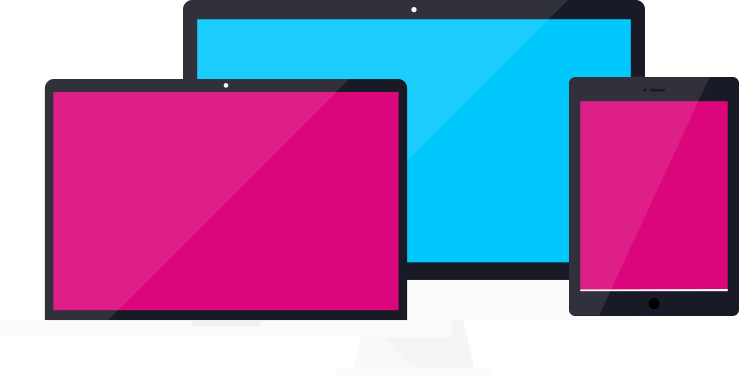
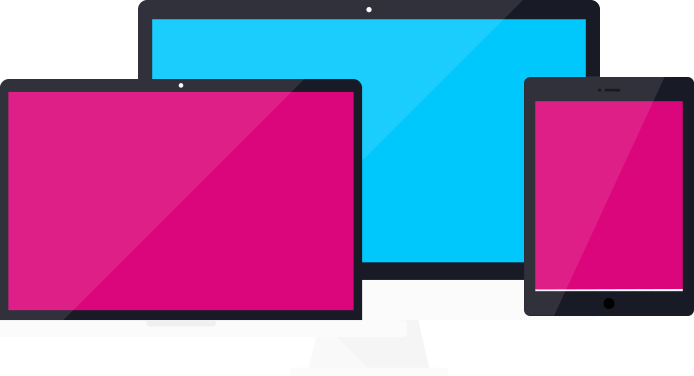
Add video section with autoplay feature and about section with achievements

diff --git a/css/kasper.css b/css/kasper.css
@@ -683,6 +683,7 @@ header .container nav .form::before {
   text-align: center;
   font-weight: 500;
   font-size: 20px;
+  text-transform: uppercase;
   cursor: pointer;
 }
 
@@ -710,3 +711,215 @@ header .container nav .form::before {
   }
 }
 /* End Portfolio */
+
+/* Start Video */
+.video {
+  position: relative;
+}
+
+.video::before {
+  content: "";
+  position: absolute;
+  top: 0;
+  left: 0;
+  width: 100%;
+  height: 99.1%;
+  background-color: #00000040;
+}
+
+.video video {
+  width: 100%;
+  aspect-ratio: 21 / 9;
+  object-fit: cover;
+}
+
+.video .text {
+  position: absolute;
+  width: 100%;
+  top: 50%;
+  transform: translateY(-50%);
+  padding: 60px;
+  color: #fff;
+  text-align: center;
+  background-color: var(--transparent-color);
+  display: flex;
+  flex-direction: column;
+  justify-content: space-between;
+  gap: 30px;
+}
+
+
+.video .text h2 {
+  text-transform: uppercase;
+  font-weight: normal;
+  font-size: 24px;
+}
+
+.video .text p {
+  font-size: 13px;
+}
+
+.video .text .btn {
+  padding: 10px 0;
+  background-color: #313131;
+  width: 150px;
+  color: #fff;
+  margin: 0 auto;
+  text-align: center;
+  font-weight: 600;
+  font-size: 16px;
+  text-transform: uppercase;
+  cursor: pointer;
+  border: 1px solid transparent;
+  transition: 0.3s;
+}
+
+.video .text .btn:hover {
+  background-color: #fff;
+  color: #313131;
+  border: 1px solid #313131;
+}
+
+@media (max-width: 768px) {
+  .video video {
+    aspect-ratio: 16 / 9;
+  }
+}
+
+@media (max-width: 425px) {
+  .video .text {
+    padding: 30px;
+    gap: 15px;
+  }
+
+  .video .text h2 {
+    font-size: 16px;
+  }
+
+  .video .text p {
+    font-size: 11px;
+  }
+
+  .video .text .btn {
+    font-size: 14px;
+    padding: 7px 0;
+  }
+}
+/* End Video */
+
+/* Start About */
+.about .image {
+  width: 100%;
+  height: 260px;
+  position: relative;
+  text-align: center;
+  margin: 0 auto;
+  overflow: hidden;
+}
+
+.about .achievements {
+  background-image: url(../images/stats.png);
+  position: relative;
+  height: 400px;
+  width: 100%;
+}
+
+.about .achievements::before {
+  content: "";
+  position: absolute;
+  top: 0;
+  left: 0;
+  width: 100%;
+  height: 100%;
+  background-color: #00000040;
+}
+
+.about .container {
+  position: relative;
+}
+
+.about .content {
+  display: flex;
+  justify-content: space-between;
+  width: calc(100% - 30px);
+  padding: 40px 60px;
+  position: absolute;
+  left: 15px;
+  bottom: -300px;
+  z-index: 5;
+  background-color: var(--transparent-color);
+  color: #fff;
+}
+
+.about .content .col {
+  text-align: center;
+  display: flex;
+  flex-direction: column;
+  gap: 15px;
+}
+
+.about .content .col i {
+  position: relative;
+}
+
+.about .content .col i::after {
+  content: "";
+  position: absolute;
+  width: 25px;
+  height: 25px;
+  background-color: #333;
+  left: 50%;
+  top: -10px;
+  z-index: -1;
+  padding: 6px;
+  clip-path: polygon(25% 0%, 75% 0%, 100% 50%, 75% 100%, 25% 100%, 0% 50%);
+  transform: translateX(-50%) rotate(90deg);
+}
+
+.about .content .col h3 {
+  font-size: 50px;
+  font-weight: bold;
+}
+
+.about .content .col p {
+  font-size: 13px;
+  font-weight: 300;
+}
+
+@media (max-width: 768px) {
+  .about .image {
+    width: 80%;
+    height: 215px;
+  }
+
+  .about .image img {
+    width: 100%;
+  }
+
+  .about .content .col h3 {
+    font-size: 40px;
+    font-weight: bold;
+  }
+
+  .about .content .col p {
+    font-size: 11px;
+    font-weight: 300;
+  }
+}
+
+@media (max-width: 425px) {
+  .about .image {
+    display: none;
+  }
+
+  .about .content {
+    flex-wrap: wrap;
+    row-gap: 30px;
+    bottom: -360px;
+  }
+
+  .about .content .col {
+    flex-basis: 50%;
+  }
+}
+/* End About */

diff --git a/index.html b/index.html
@@ -237,5 +237,56 @@
     <div class="btn">More</div>
   </div>
   <!-- End Portfolio -->
+  
+  <!-- Start Video -->
+  <div class="video">
+    <video muted autoplay loop>
+      <source src="videos/awesome-video.mp4" type="video/mp4">
+      Your Browser Does Not Support video Tag
+    </video>
+    <div class="text">
+      <h2>super awesome video here</h2>
+      <p>It's all you need</p>
+      <div class="btn">see more</div>
+    </div>
+  </div>
+  <!-- End Video -->
+
+  <!-- Start About -->
+  <div class="about" id="about">
+    <div class="container">
+      <div class="main-heading">
+        <h2>About Us</h2>
+        <p>Curabitur arcu erat, accumsan id imperdiet et, porttitor at sem. Mauris blandit aliquet elit, eget tincidunt.</p>
+      </div>
+      <div class="image">
+        <img src="images/about.png" alt="Tablets">
+      </div>
+      <div class="content">
+        <div class="col">
+          <i class="fas fa-coffee fa-1x"></i>
+          <h3>1,263</h3>
+          <p>Coffee Drinks</p>
+        </div>
+        <div class="col">
+          <i class="fas fa-folder fa-1x"></i>
+          <h3>256</h3>
+          <p>Completed Projects</p>
+        </div>
+        <div class="col">
+          <i class="fas fa-message fa-1x"></i>
+          <h3>1,743</h3>
+          <p>Mail Sent</p>
+        </div>
+        <div class="col">
+          <i class="fas fa-award fa-1x"></i>
+          <h3>17</h3>
+          <p>Awards Received</p>
+        </div>
+      </div>
+    </div>
+    <div class="achievements"></div>
+  </div>
+  <!-- End About -->
 </body>
 </html>
